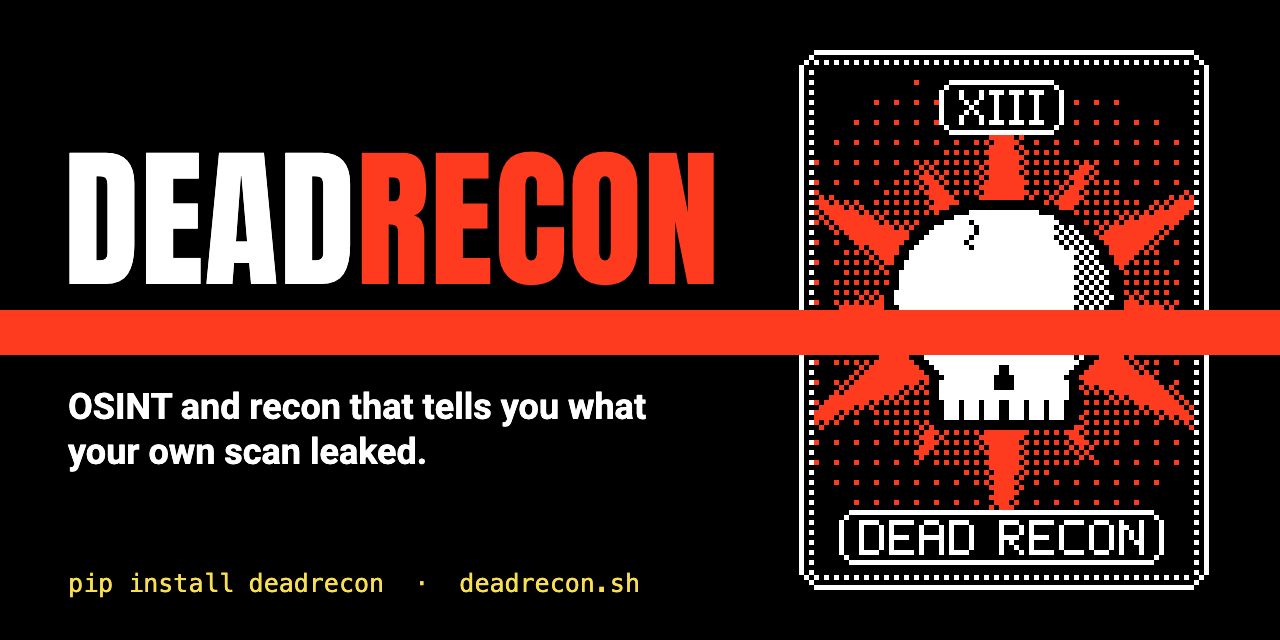
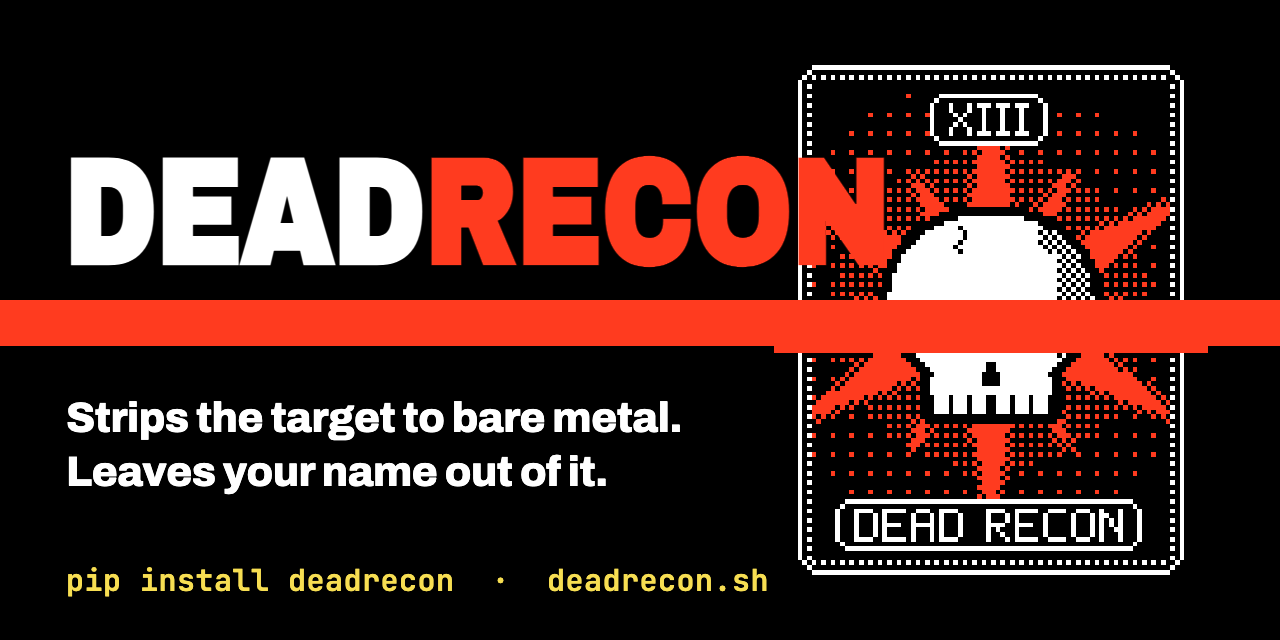
docs: roll new hero tagline into all signature slots + rebuild social card
Replace "Map the surface. Own the signal." with the full hero line
("DeadRecon strips the target to bare metal. Leaves your name out of it.
We checked the packets.") in the CLI/ASCII banners (__init__.py), the CLI
group docstring (cli.py), the HTML report footer (manager.py), the README
footer, and the og:description. The ASCII banner box is re-wrapped and the
right borders re-aligned to fit the longer line.

Rebuild docs/assets/deadrecon-social.png (1280x640 OG/Twitter card) with
the 2-line hero subtitle ("Strips the target to bare metal. / Leaves your
name out of it.") in place of the old "what your own scan leaked" line, and
update og:image:alt to match. The card had no source before; add
deadrecon-social.src.html (reusing deadrecon-card.svg) so it is
regenerable, with the headless-Chrome render command documented inline.

diff --git a/docs/assets/deadrecon-social.src.html b/docs/assets/deadrecon-social.src.html
@@ -1,0 +1,65 @@
+<!doctype html>
+<!--
+  Source for deadrecon-social.png (1280x640 OG/Twitter card).
+  Regenerate from this directory with headless Chrome:
+
+    "/Applications/Google Chrome.app/Contents/MacOS/Google Chrome" \
+      --headless=new --disable-gpu --hide-scrollbars \
+      --force-device-scale-factor=1 --window-size=1280,640 \
+      --virtual-time-budget=4000 \
+      --screenshot=deadrecon-social.png \
+      "file://$PWD/deadrecon-social.src.html"
+
+  Reuses deadrecon-card.svg (the XIII tarot art) for the right panel.
+  Fonts load from Google Fonts, so a network connection is needed when rendering.
+-->
+<html lang="en">
+<head>
+<meta charset="utf-8">
+<link rel="preconnect" href="https://fonts.googleapis.com">
+<link rel="preconnect" href="https://fonts.gstatic.com" crossorigin>
+<link href="https://fonts.googleapis.com/css2?family=Archivo+Black&family=Archivo:wght@700;800&family=JetBrains+Mono:wght@500;600&display=swap" rel="stylesheet">
+<style>
+  :root{ --bg:#000; --fg:#fff; --red:#ff3b1f; --gold:#f7de52; }
+  *{ margin:0; padding:0; box-sizing:border-box; }
+  html,body{ width:1280px; height:640px; background:var(--bg); overflow:hidden; }
+  .stage{ position:relative; width:1280px; height:640px; background:var(--bg); }
+
+  /* full-width red censor bar: behind the wordmark, over the card */
+  .redbar{ position:absolute; left:0; right:0; top:300px; height:46px; background:var(--red); z-index:1; }
+
+  .wm{
+    position:absolute; top:138px; left:64px; z-index:2;
+    font-family:"Archivo Black", system-ui, sans-serif;
+    font-size:150px; line-height:1; letter-spacing:-2px; white-space:nowrap;
+    transform:scaleX(0.80); transform-origin:left center;
+  }
+  .wm .w{ color:var(--fg); }
+  .wm .r{ color:var(--red); }
+
+  .sub{
+    position:absolute; top:392px; left:66px; z-index:2;
+    font-family:"Archivo", system-ui, sans-serif; font-weight:800;
+    font-size:42px; line-height:1.28; color:var(--fg); letter-spacing:-0.5px;
+  }
+  .install{
+    position:absolute; top:560px; left:66px; z-index:2;
+    font-family:"JetBrains Mono", ui-monospace, monospace; font-weight:600;
+    font-size:30px; color:var(--gold); letter-spacing:0.5px;
+  }
+  .card{
+    position:absolute; top:56px; right:72px; height:528px; width:auto; z-index:0;
+    image-rendering:pixelated;
+  }
+</style>
+</head>
+<body>
+  <div class="stage">
+    <div class="redbar"></div>
+    <h1 class="wm"><span class="w">DEAD</span><span class="r">RECON</span></h1>
+    <p class="sub">Strips the target to bare metal.<br>Leaves your name out of it.</p>
+    <p class="install">pip install deadrecon&nbsp;&nbsp;·&nbsp;&nbsp;deadrecon.sh</p>
+    <img class="card" src="deadrecon-card.svg" alt="">
+  </div>
+</body>
+</html>

diff --git a/docs/index.html b/docs/index.html
@@ -9,11 +9,11 @@
   <meta property="og:image" content="https://deadrecon.sh/assets/deadrecon-social.png">
   <meta property="og:image:width" content="1280">
   <meta property="og:image:height" content="640">
-  <meta property="og:image:alt" content="DeadRecon: OSINT and recon that tells you what your own scan leaked">
+  <meta property="og:image:alt" content="DeadRecon: strips the target to bare metal, leaves your name out of it">
   <meta name="twitter:image" content="https://deadrecon.sh/assets/deadrecon-social.png">
   <meta property="og:url" content="https://deadrecon.sh/">
   <meta name="twitter:card" content="summary_large_image">
-  <meta property="og:description" content="Recon that doesn't burn your infrastructure. Stealth egress under every module + an honest attribution-surface report. Map the surface. Own the signal.">
+  <meta property="og:description" content="Recon that doesn't burn your infrastructure. Stealth egress under every module + an honest attribution-surface report. DeadRecon strips the target to bare metal. Leaves your name out of it. We checked the packets.">
   <title>DeadRecon — The OPSEC-Native OSINT Framework</title>
   <link rel="icon" type="image/svg+xml" href="assets/deadrecon-favicon.svg">
   <link rel="stylesheet" href="site.css">

diff --git a/deadrecon/__init__.py b/deadrecon/__init__.py
@@ -14,7 +14,8 @@ r"""
 
 
          >> OPEN-SOURCE OSINT INTELLIGENCE FRAMEWORK <<
-         >> "Map the surface. Own the signal."        <<
+         >> "DeadRecon strips the target to bare metal.
+         >>  Leaves your name out of it. We checked the packets."
 """
 
 __version__ = "1.31.1"
@@ -43,8 +44,9 @@ BANNER = r"""
 
 
       ░░░░░░  DEAD RECON  //  v{version}  //  OSINT FRAMEWORK  ░░░░░░
-      ░  "Map the surface. Own the signal."                        ░
-      ░  by the-clipper  //  AI arch: Claude (Anthropic)        ░
+      ░  DeadRecon strips the target to bare metal.              ░
+      ░  Leaves your name out of it. We checked the packets.     ░
+      ░  by the-clipper  //  AI arch: Claude (Anthropic)         ░
       ░░░░░░░░░░░░░░░░░░░░░░░░░░░░░░░░░░░░░░░░░░░░░░░░░░░░░░░░░░░░
 """.format(version=__version__)
 

diff --git a/deadrecon/exporters/manager.py b/deadrecon/exporters/manager.py
@@ -380,7 +380,7 @@ footer {{ margin-top: 3rem; border-top: 1px solid #2a3235; padding-top: 1rem; co
 </div>
 <h2>Intelligence Findings ({payload['result_count']} signals)</h2>
 {results_html}
-<footer>Generated by DeadRecon OSINT Framework v{payload['deadrecon_version']} | "Map the surface. Own the signal."</footer>
+<footer>Generated by DeadRecon OSINT Framework v{payload['deadrecon_version']} | "DeadRecon strips the target to bare metal. Leaves your name out of it. We checked the packets."</footer>
 </body>
 </html>"""
         with open(path, "w", encoding="utf-8") as f:

diff --git a/deadrecon/cli.py b/deadrecon/cli.py
@@ -738,7 +738,8 @@ def main(ctx, config):
     DeadRecon — Open Source OSINT Intelligence Framework
 
     \b
-    "Map the surface. Own the signal."
+    "DeadRecon strips the target to bare metal.
+    Leaves your name out of it. We checked the packets."
     """
     ctx.ensure_object(dict)
     ctx.obj["config_path"] = config

diff --git a/README.md b/README.md
@@ -540,4 +540,4 @@ Card XIII tips its censored skull to *The Sun* by [littlebitspace](https://16col
 
 ---
 
-*Built with questionable amounts of caffeine. "Map the surface. Own the signal."*
+*Built with questionable amounts of caffeine. "DeadRecon strips the target to bare metal. Leaves your name out of it. We checked the packets."*
